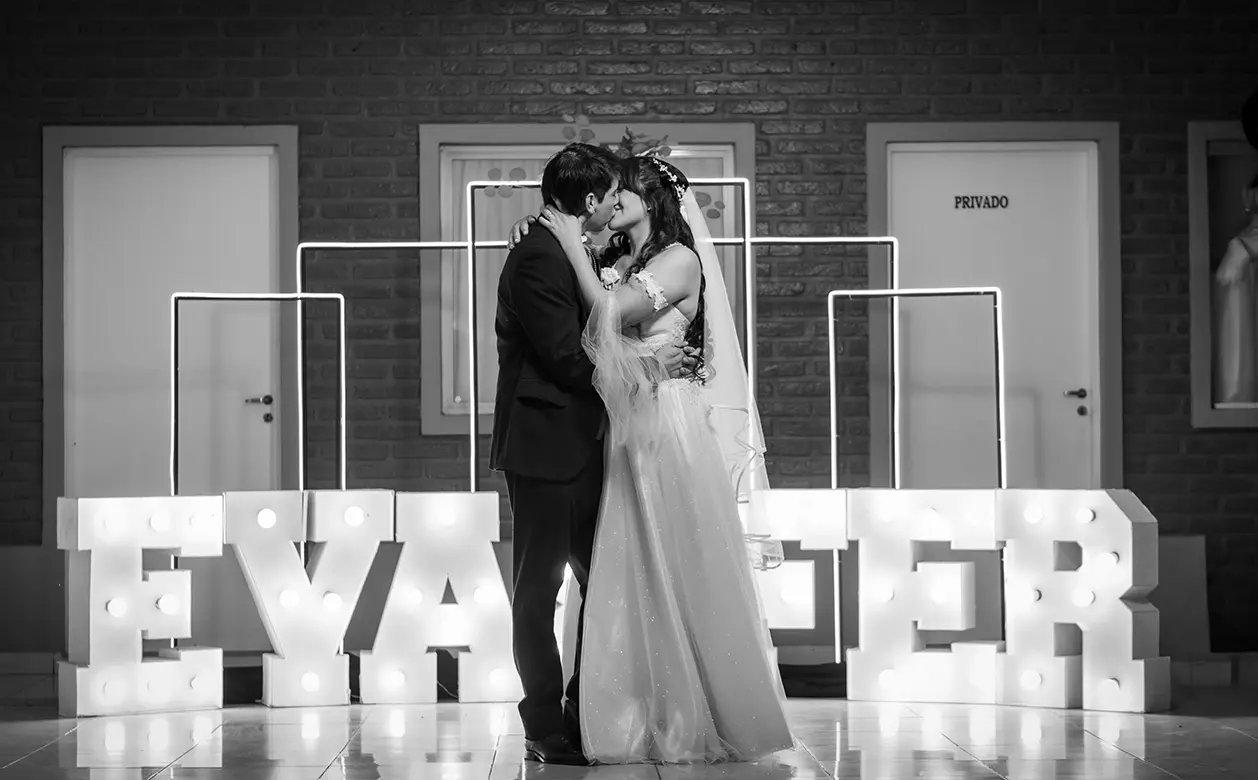
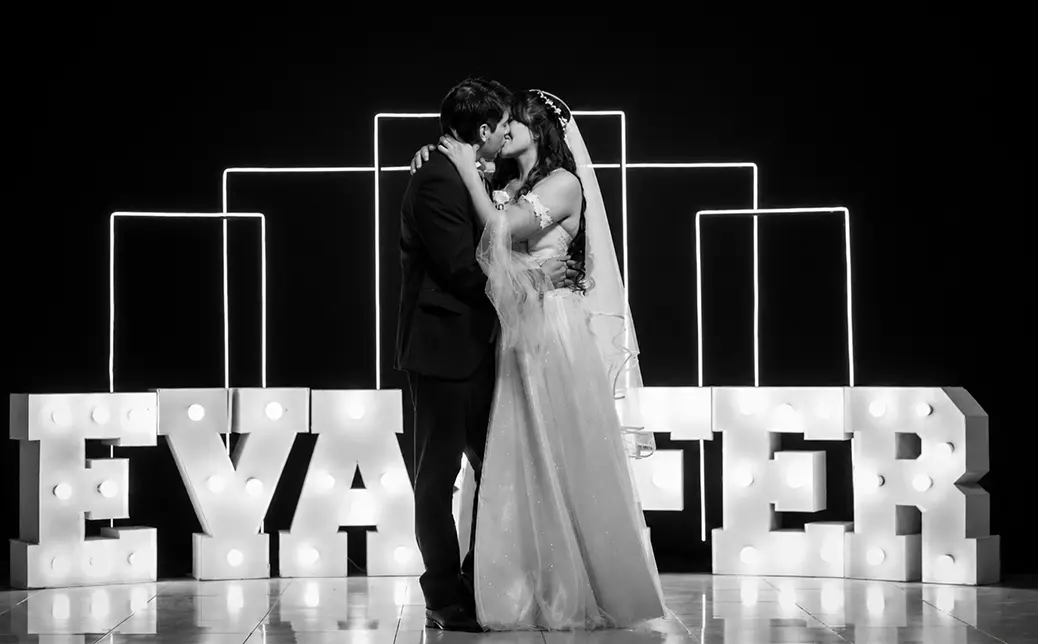
init comit3

diff --git a/index.html b/index.html
@@ -8,8 +8,8 @@
     <link rel="preconnect" href="https://fonts.gstatic.com" crossorigin>
     <link href="https://fonts.googleapis.com/css2?family=Poppins:wght@300;400;700&display=swap" rel="stylesheet">
     <link rel="stylesheet" href="https://cdn.jsdelivr.net/npm/swiper@11/swiper-bundle.min.css" />
-    <link rel="stylesheet" href="css/normalize.css?v4">
-    <link rel="stylesheet" href="css/index.css?v4">
+    <link rel="stylesheet" href="css/normalize.css?v5">
+    <link rel="stylesheet" href="css/index.css?v5">
     <title>Isabella Studio</title>
 </head>
 
@@ -288,7 +288,7 @@
 
     <script src="https://cdn.jsdelivr.net/npm/swiper@11/swiper-bundle.min.js"></script>
 
-    <script src="js/index.js?v4"></script>
+    <script src="js/index.js?v5"></script>
 
     <footer class="footer">
         <div class="footer__grid">
